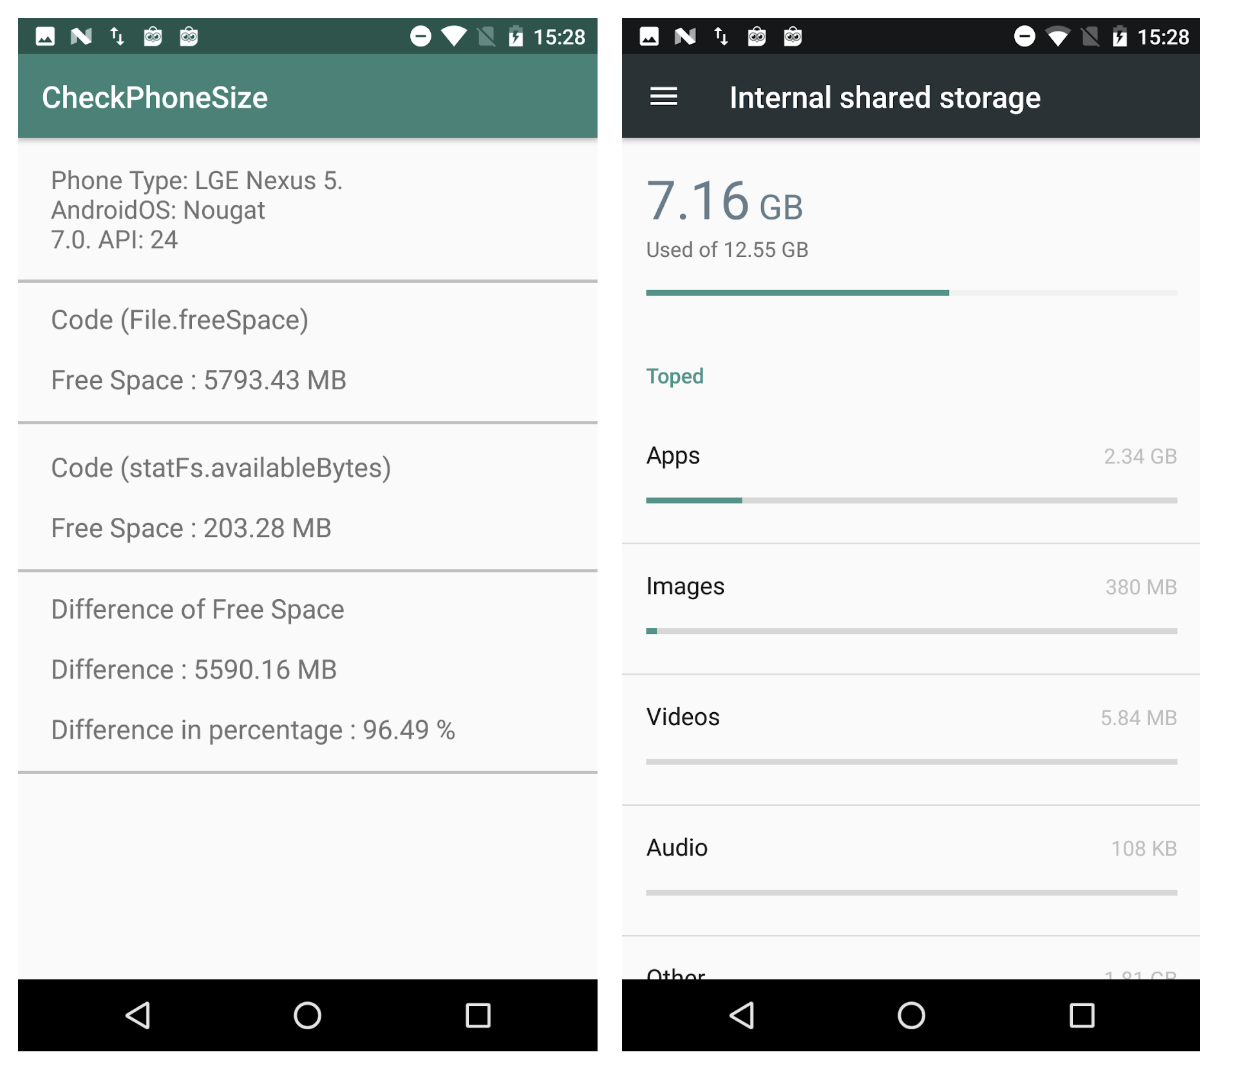
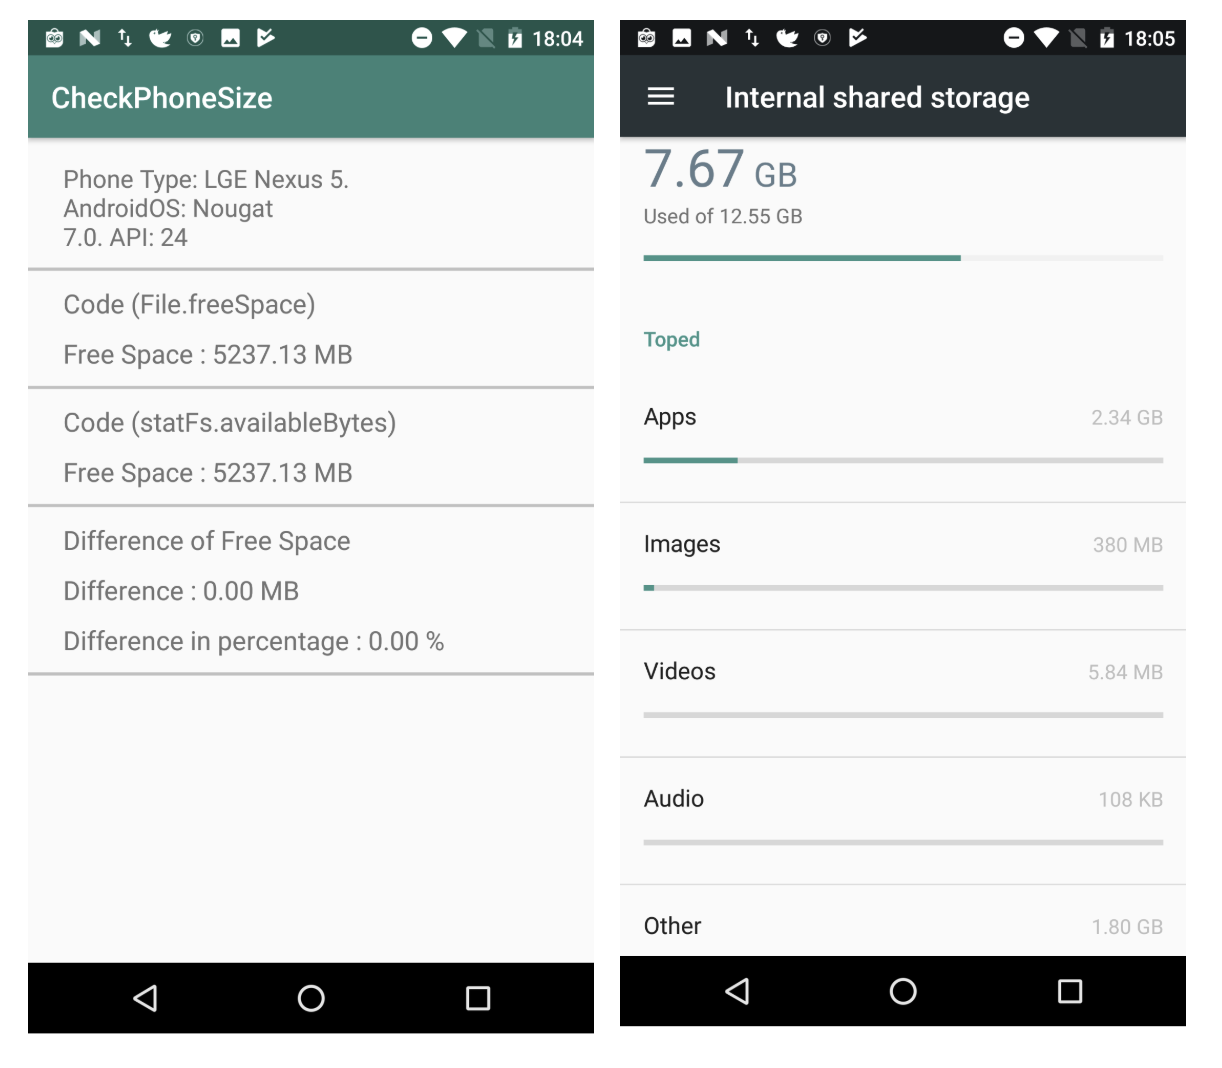
Update Screenshots and README.md

diff --git a/README.md b/README.md
@@ -6,12 +6,12 @@ Some of the devices that have been tested:
 
 Xiaomi MI 4W. Marshmallow. API 23<br/>
 ![Xiaomi MI 4W](../master/screenshots/Xiaomi_Mi4W_Marshmallow.png)<br/>
-Free Storage : 1.36GB
+Free Storage = 1.36GB
 
 
 LGE Nexus 5. Nougat. API 24<br/>
 ![LGE Nexus 5](../master/screenshots/LGE_Nexus5_Nougat.png)<br/>
-Free Storage = 12.55 - 7.16 = 5.39 GB
+Free Storage = 12.55 - 7.67 = 4.88 GB
 
 
 Motorola Nexus 6. Nougat. API 25<br/>
